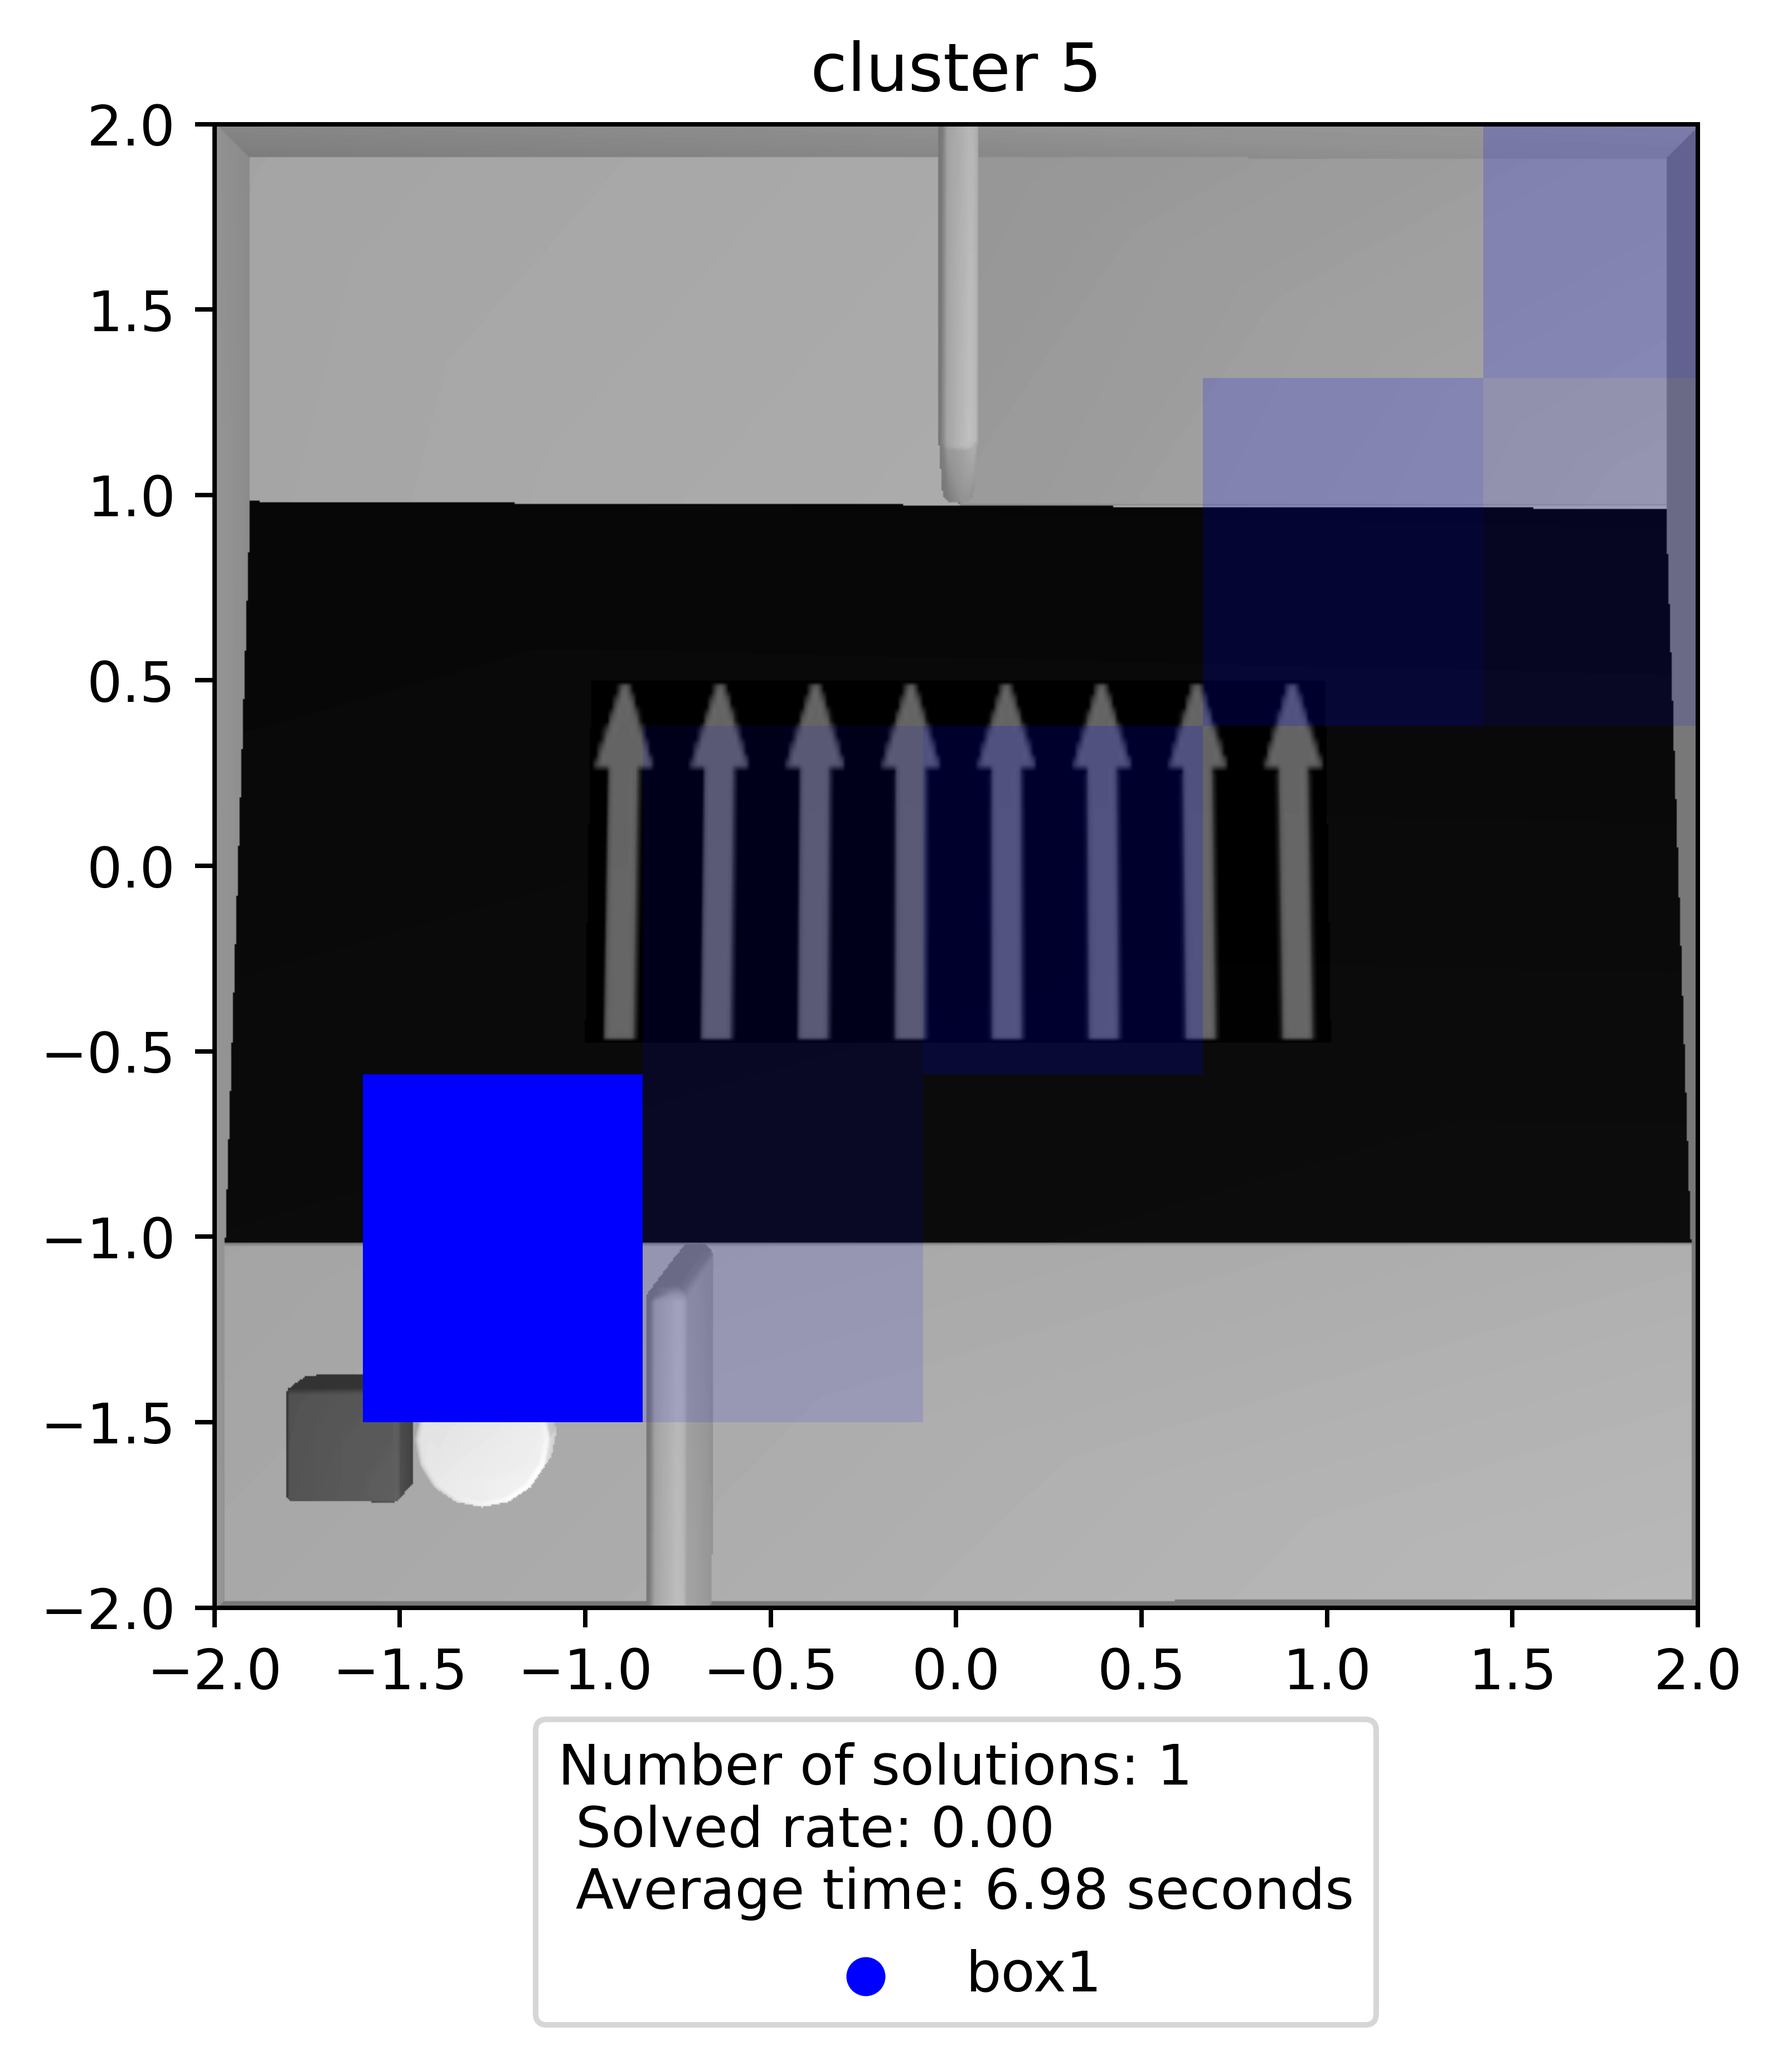
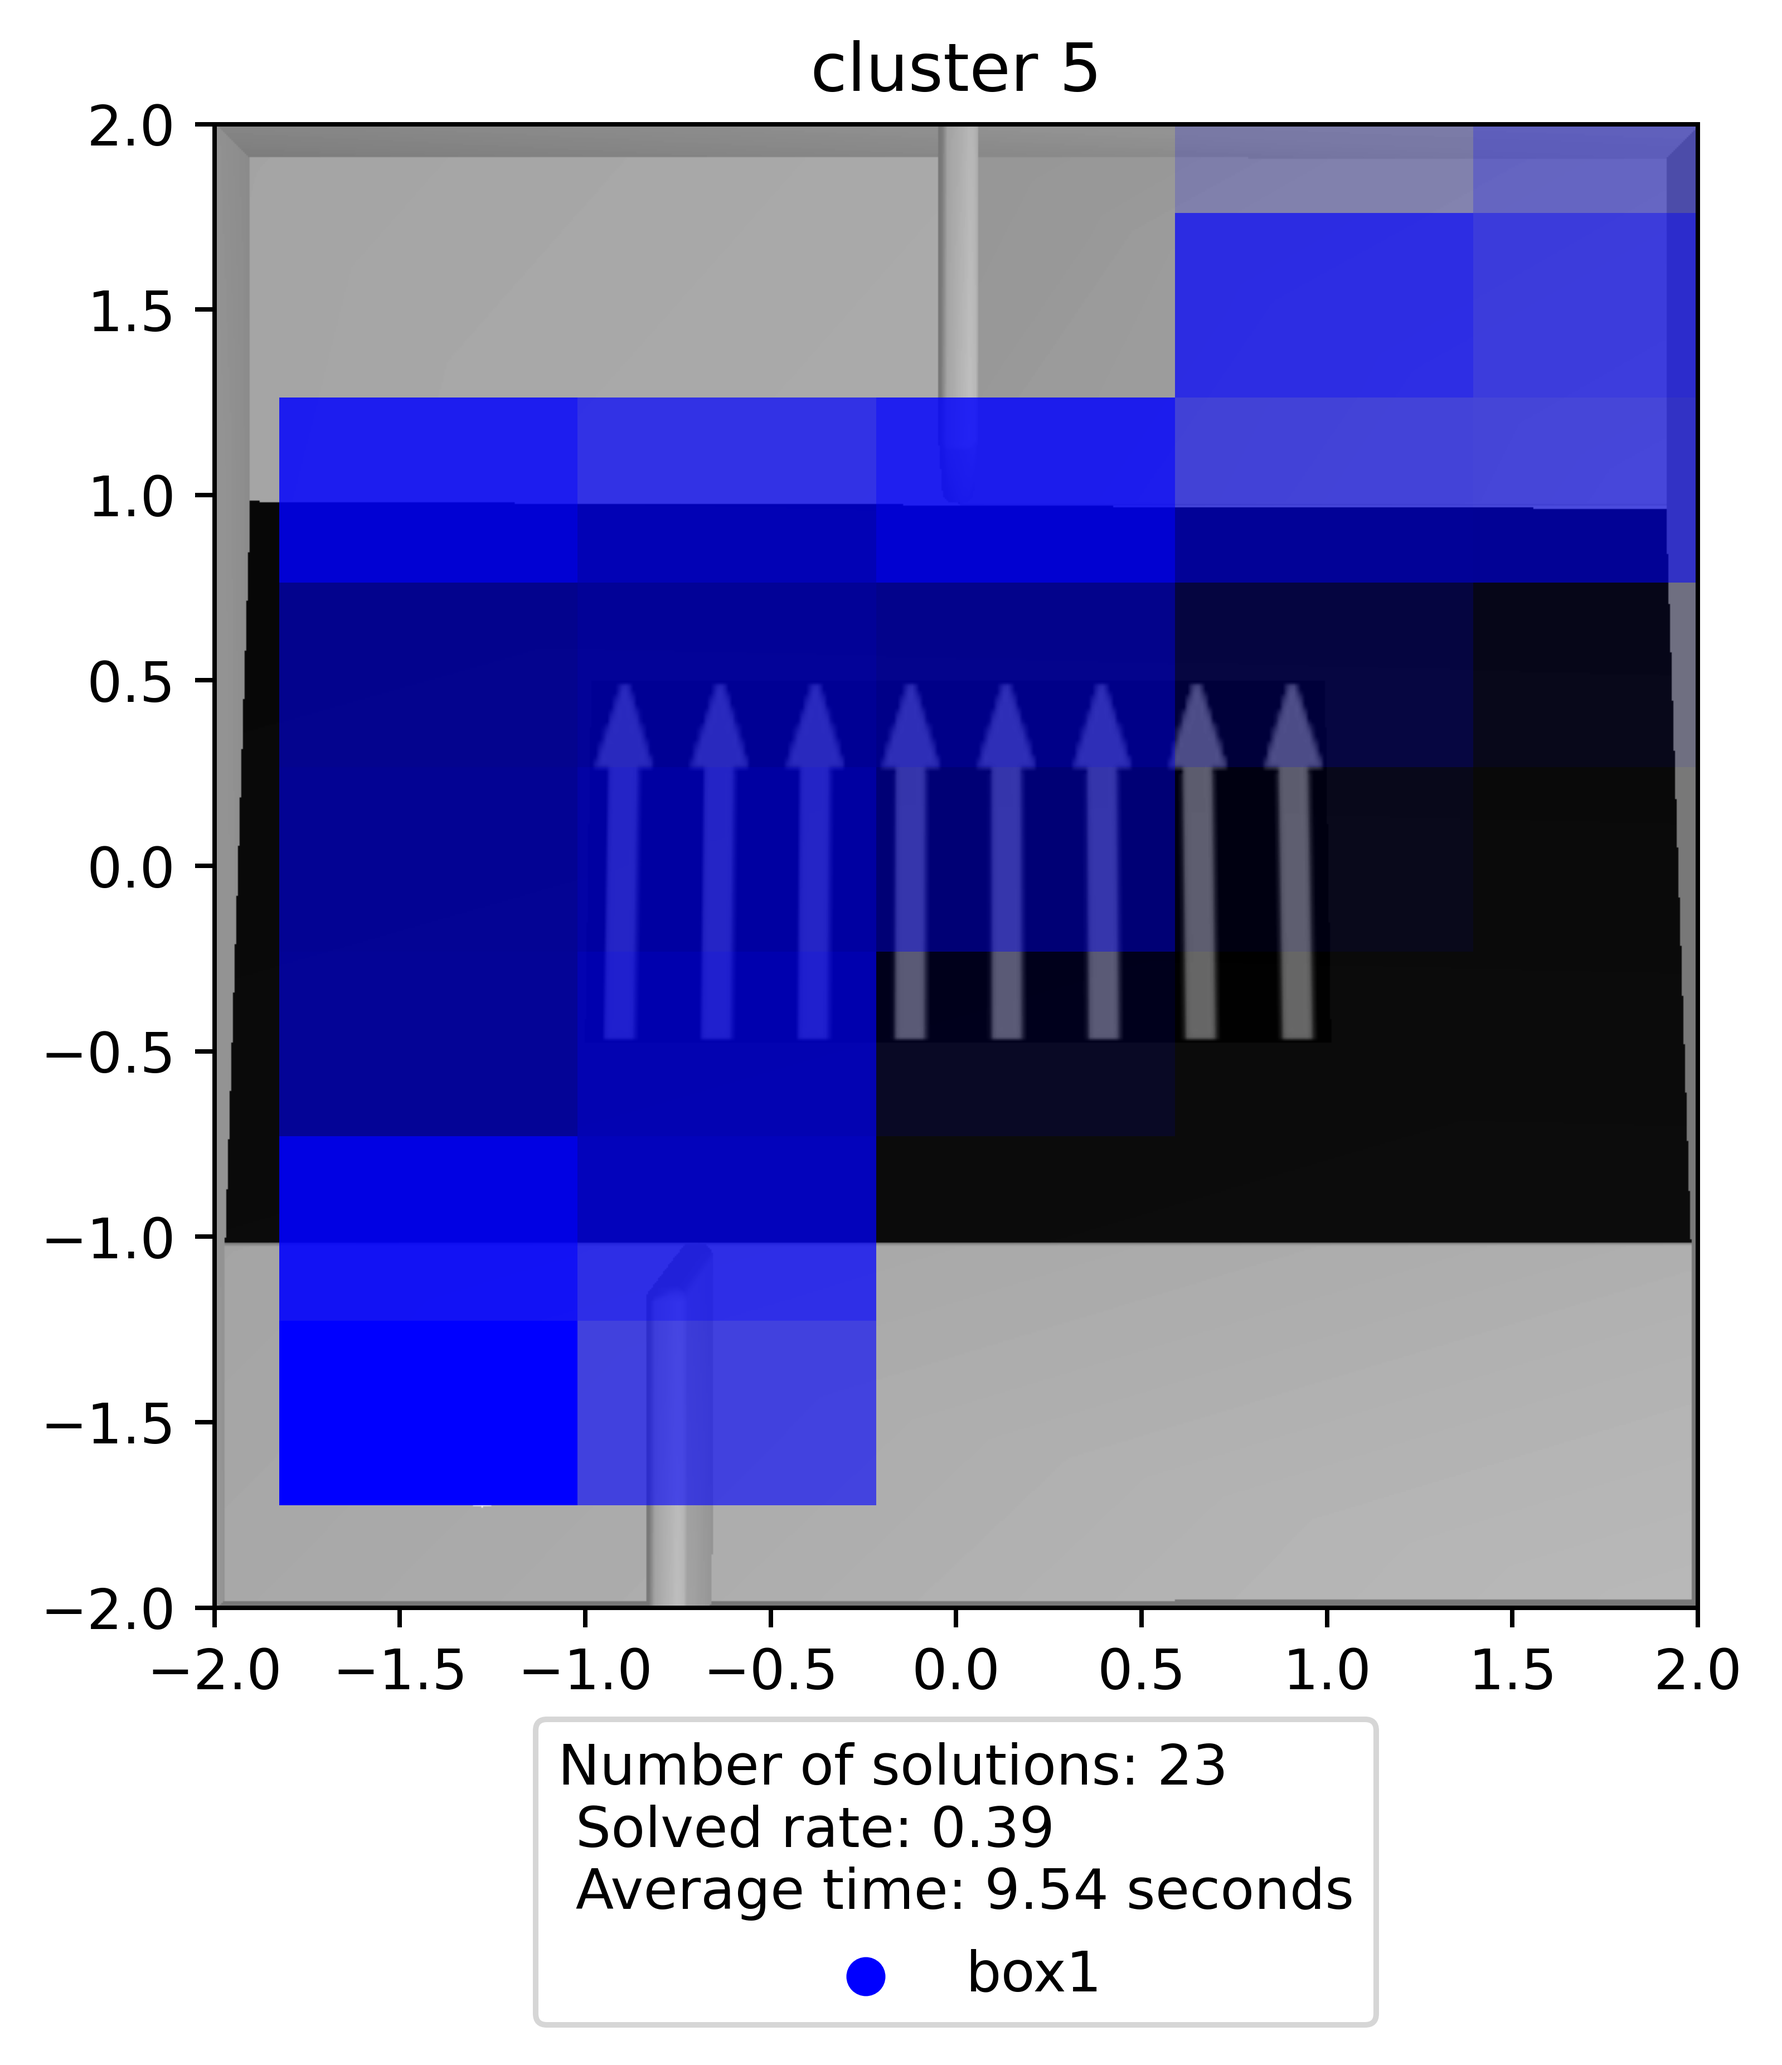
p20 clustering redone with manual num of clusters

Changed region(s): [[0.1548, 0.0621, 0.96, 0.7451], [0.5574, 0.8693, 0.6193, 0.9314], [0.6503, 0.8383, 0.6813, 0.8693]]

diff --git a/SRC/clusterPositionalVector.py b/SRC/clusterPositionalVector.py
@@ -1044,7 +1044,7 @@ if __name__ == '__main__':
         # num_processes = 10  # Number of processes to use
         # run_parallel_tasks(puzzles, softdtwscore_options, num_processes)
 
-        run_process_puzzle(10, True)  # Example of running for puzzle 10 with softdtwscore
+        run_process_puzzle(20, True)  # Example of running for puzzle 10 with softdtwscore
         
         
 #     plt.figure()
